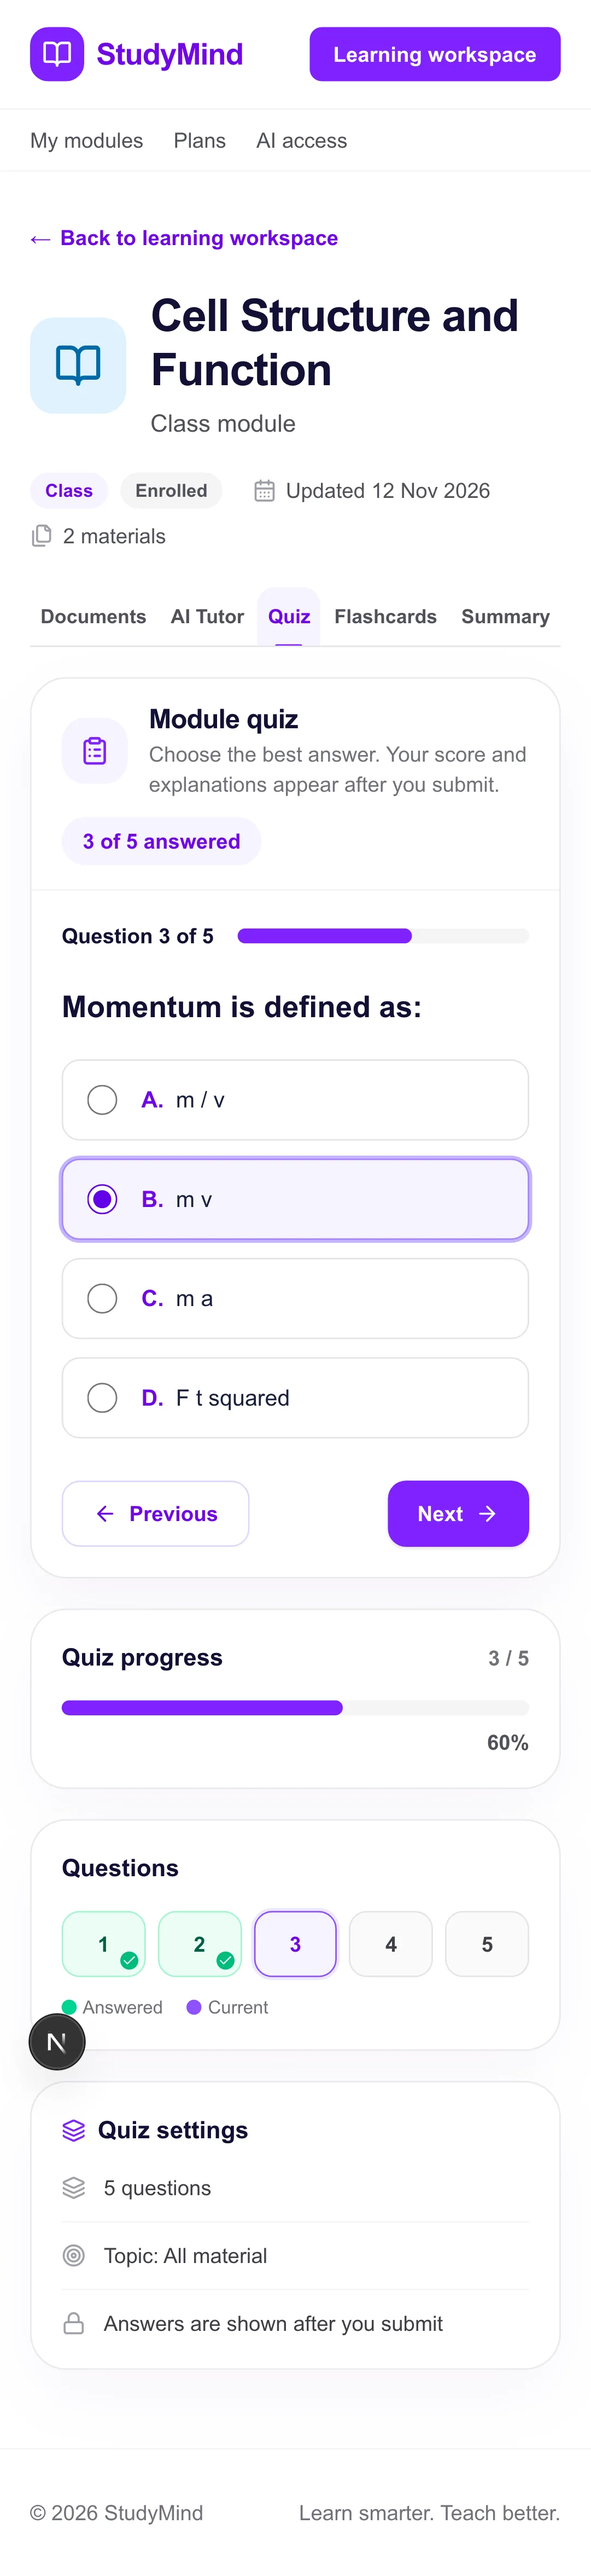
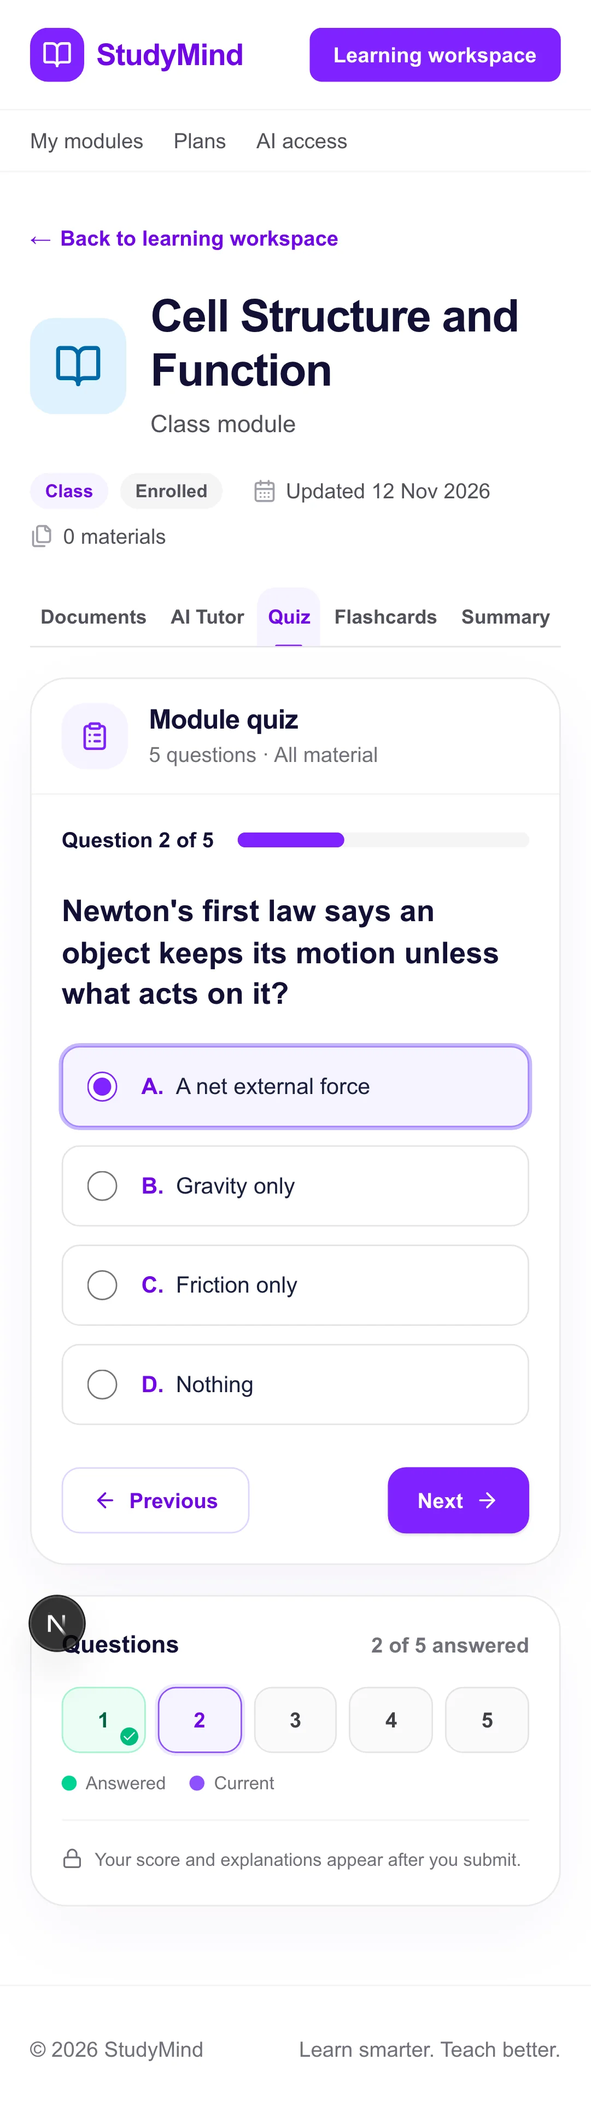
fix(web): quiz and flashcards layout - one progress indicator, one side card, no repeated information
Follows the careermind structure (main card + navigator) and the approved mockup, without the repetition:
- quiz: removed the 'answered' pill, 'Quiz progress' and 'Quiz settings' cards; the Questions card now carries the answered count, the legend and a single note about when answers appear; count and topic live in the subtitle
- results: removed the duplicate 'Your score' card; Questions card shows correct/incorrect and the new-quiz button
- flashcards: 'Card N of M' + reviewed count on one line with one bar; one Cards card holding the navigator and the topic / new-set controls
- side column is sticky on wide screens
- docs screenshots refreshed (desktop, 920px and mobile)

diff --git a/src/components/learning/ai/quiz-tab.tsx b/src/components/learning/ai/quiz-tab.tsx
@@ -1,11 +1,11 @@
 'use client';
 import { useState } from 'react';
-import { ArrowLeft, ArrowRight, CheckCircle2, ClipboardList, Layers, Lock, Target, XCircle } from 'lucide-react';
+import { ArrowLeft, ArrowRight, CheckCircle2, ClipboardList, Lock, XCircle } from 'lucide-react';
 import { studyMindAiService } from '@/services/studymind-ai.service';
 import type { QuizGenerated, QuizResult } from '@/lib/learning-ai.mjs';
 import { ErrorBox } from '@/components/learning/states';
 import { GenerateState, TopicField, errorText } from './shared';
-import { NumberGrid, ProgressBar, SettingRow, SideCard, ToolLayout, ToolPanel, btnOutline, btnPrimary, type CellState } from './layout';
+import { GridLegend, NumberGrid, ProgressBar, SideCard, ToolLayout, ToolPanel, btnOutline, btnPrimary, type CellState } from './layout';
 import { cn } from '@/lib/utils';
 
 const LETTERS = 'ABCDEFGHIJ';
@@ -54,20 +54,14 @@ export function QuizTab({ moduleId }: { moduleId: string }) {
   const total = questions.length;
   const answered = questions.filter(q => answers[q.id]).length;
   const allAnswered = answered === total;
-  const settings = <SideCard title="Quiz settings" icon={<Layers className="size-4" />}>
-    <ul>
-      <SettingRow icon={<Layers className="size-4" />}>{total} {total === 1 ? 'question' : 'questions'}</SettingRow>
-      <SettingRow icon={<Target className="size-4" />}>Topic: {usedTopic || 'All material'}</SettingRow>
-      <SettingRow icon={<Lock className="size-4" />}>Answers are shown after you submit</SettingRow>
-    </ul>
-  </SideCard>;
+  const meta = `${total} ${total === 1 ? 'question' : 'questions'} · ${usedTopic ? `Topic: ${usedTopic}` : 'All material'}`;
 
   // ── Results ──
   if (result) {
     const review = new Map(result.questions.map(q => [q.id, q]));
     const states: CellState[] = questions.map(q => (review.get(q.id)?.is_correct ? 'correct' : 'wrong'));
     return <ToolLayout
-      main={<ToolPanel icon={<CheckCircle2 className="size-5" />} title="Quiz results" subtitle="Review each question and its explanation.">
+      main={<ToolPanel icon={<CheckCircle2 className="size-5" />} title="Quiz results" subtitle={meta}>
         <div role="status" data-testid="quiz-score" className="mb-6 rounded-2xl border border-violet-200 bg-violet-50 p-5">
           <p className="text-2xl font-extrabold text-violet-800">Score: {Math.round(result.score)}%</p>
           <p className="mt-1 text-sm text-violet-900">{result.correct} of {result.total} correct</p>
@@ -97,17 +91,11 @@ export function QuizTab({ moduleId }: { moduleId: string }) {
         </ol>
         {error && <div className="mt-4"><ErrorBox message={error} /></div>}
       </ToolPanel>}
-      side={<>
-        <SideCard title="Your score" right={<span className="text-sm font-semibold text-zinc-500">{result.correct} / {result.total}</span>}>
-          <ProgressBar value={result.correct} max={result.total} label="Correct answers" />
-          <p className="mt-2 text-right text-sm font-semibold text-zinc-600">{Math.round(result.score)}%</p>
-        </SideCard>
-        <SideCard title="Questions">
-          <NumberGrid label="Jump to a question" noun="Question" states={states} onSelect={i => document.getElementById(`quiz-q-${questions[i].id}`)?.scrollIntoView({ behavior: 'smooth', block: 'center' })} />
-          <p className="mt-3 flex flex-wrap gap-x-4 gap-y-1 text-xs text-zinc-500"><span className="inline-flex items-center gap-1"><i className="size-2.5 rounded-full bg-emerald-400" />Correct</span><span className="inline-flex items-center gap-1"><i className="size-2.5 rounded-full bg-red-400" />Incorrect</span></p>
-        </SideCard>
-        <button type="button" onClick={reset} className={cn(btnPrimary, 'w-full')}>Generate a new quiz</button>
-      </>} />;
+      side={<SideCard title="Questions" right={<span className="text-sm font-semibold text-zinc-500">{result.correct} of {result.total} correct</span>}>
+        <NumberGrid label="Jump to a question" noun="Question" states={states} onSelect={i => document.getElementById(`quiz-q-${questions[i].id}`)?.scrollIntoView({ behavior: 'smooth', block: 'center' })} />
+        <GridLegend items={[{ label: 'Correct', dot: 'bg-emerald-400' }, { label: 'Incorrect', dot: 'bg-red-400' }]} />
+        <button type="button" onClick={reset} className={cn(btnPrimary, 'mt-5 w-full')}>Generate a new quiz</button>
+      </SideCard>} />;
   }
 
   // ── Taking the quiz ──
@@ -115,8 +103,7 @@ export function QuizTab({ moduleId }: { moduleId: string }) {
   const states: CellState[] = questions.map((x, i) => (i === current ? 'current' : answers[x.id] ? 'done' : 'idle'));
   const last = current === total - 1;
   return <ToolLayout
-    main={<ToolPanel icon={<ClipboardList className="size-5" />} title="Module quiz" subtitle="Choose the best answer. Your score and explanations appear after you submit."
-      right={<span className="rounded-full bg-violet-50 px-3.5 py-1.5 text-sm font-semibold text-violet-700">{answered} of {total} answered</span>}>
+    main={<ToolPanel icon={<ClipboardList className="size-5" />} title="Module quiz" subtitle={meta}>
       <div className="flex items-center gap-4">
         <p className="shrink-0 text-sm font-bold text-[#111034]">Question {current + 1} of {total}</p>
         <ProgressBar value={current + 1} max={total} label="Position in the quiz" className="flex-1" />
@@ -145,15 +132,9 @@ export function QuizTab({ moduleId }: { moduleId: string }) {
           : <button type="button" className={btnPrimary} onClick={() => setCurrent(c => Math.min(total - 1, c + 1))}>Next <ArrowRight className="size-4" aria-hidden /></button>}
       </div>
     </ToolPanel>}
-    side={<>
-      <SideCard title="Quiz progress" right={<span className="text-sm font-semibold text-zinc-500">{answered} / {total}</span>}>
-        <ProgressBar value={answered} max={total} label="Questions answered" />
-        <p className="mt-2 text-right text-sm font-semibold text-zinc-600">{total ? Math.round((answered / total) * 100) : 0}%</p>
-      </SideCard>
-      <SideCard title="Questions">
-        <NumberGrid label="Jump to a question" noun="Question" states={states} onSelect={setCurrent} />
-        <p className="mt-3 flex flex-wrap gap-x-4 gap-y-1 text-xs text-zinc-500"><span className="inline-flex items-center gap-1"><i className="size-2.5 rounded-full bg-emerald-400" />Answered</span><span className="inline-flex items-center gap-1"><i className="size-2.5 rounded-full bg-violet-500" />Current</span></p>
-      </SideCard>
-      {settings}
-    </>} />;
+    side={<SideCard title="Questions" right={<span className="text-sm font-semibold text-zinc-500">{answered} of {total} answered</span>}>
+      <NumberGrid label="Jump to a question" noun="Question" states={states} onSelect={setCurrent} />
+      <GridLegend items={[{ label: 'Answered', dot: 'bg-emerald-400' }, { label: 'Current', dot: 'bg-violet-500' }]} />
+      <p className="mt-4 flex items-start gap-2 border-t border-zinc-100 pt-4 text-xs leading-5 text-zinc-500"><Lock className="mt-0.5 size-3.5 shrink-0" aria-hidden />Your score and explanations appear after you submit.</p>
+    </SideCard>} />;
 }

diff --git a/src/components/learning/ai/flashcards-tab.tsx b/src/components/learning/ai/flashcards-tab.tsx
@@ -1,11 +1,11 @@
 'use client';
 import { useState, type KeyboardEvent } from 'react';
-import { ArrowLeft, ArrowRight, Layers, RotateCcw, Target } from 'lucide-react';
+import { ArrowLeft, ArrowRight, Layers, RotateCcw } from 'lucide-react';
 import { studyMindAiService } from '@/services/studymind-ai.service';
 import type { FlashcardDeck } from '@/lib/learning-ai.mjs';
 import { ErrorBox } from '@/components/learning/states';
 import { GenerateState, TopicField, errorText } from './shared';
-import { NumberGrid, ProgressBar, SettingRow, SideCard, ToolLayout, ToolPanel, btnOutline, btnPrimary, type CellState } from './layout';
+import { GridLegend, NumberGrid, ProgressBar, SideCard, ToolLayout, ToolPanel, btnOutline, btnPrimary, type CellState } from './layout';
 import { cn } from '@/lib/utils';
 
 /** Flashcards: generated from the module's material. Flip each card, move through the set, and see which cards you have reviewed. */
@@ -45,11 +45,16 @@ export function FlashcardsTab({ moduleId }: { moduleId: string }) {
     if (e.key === 'ArrowLeft') { e.preventDefault(); goTo(index - 1); }
   };
 
+  const meta = `${total} ${total === 1 ? 'card' : 'cards'} · ${usedTopic ? `Topic: ${usedTopic}` : 'All material'}`;
   return <ToolLayout
-    main={<ToolPanel icon={<Layers className="size-5" />} title="Flashcards" subtitle="Flip a card to check yourself. Use the arrow keys to move between cards."
-      right={<span data-testid="card-counter" aria-live="polite" className="rounded-full bg-violet-50 px-3.5 py-1.5 text-sm font-semibold text-violet-700">Card {index + 1} of {total}</span>}>
-      <button type="button" onClick={flip} onKeyDown={onKey} aria-label={flipped ? 'Show question' : 'Reveal answer'} data-testid="flashcard"
-        className={cn('flex min-h-64 w-full flex-col items-center justify-center rounded-3xl border p-7 text-center transition focus-visible:outline-none focus-visible:ring-2 focus-visible:ring-violet-500 focus-visible:ring-offset-2 sm:min-h-72',
+    main={<ToolPanel icon={<Layers className="size-5" />} title="Flashcards" subtitle={meta}>
+      <div className="flex items-center justify-between gap-4 text-sm">
+        <span data-testid="card-counter" aria-live="polite" className="font-bold text-[#111034]">Card {index + 1} of {total}</span>
+        <span className="font-semibold text-zinc-500">{reviewed.size} reviewed</span>
+      </div>
+      <ProgressBar value={reviewed.size} max={total} label="Cards reviewed" className="mt-3" />
+      <button type="button" onClick={flip} onKeyDown={onKey} aria-label={flipped ? 'Show question' : 'Reveal answer'} aria-keyshortcuts="ArrowLeft ArrowRight" data-testid="flashcard"
+        className={cn('mt-6 flex min-h-64 w-full flex-col items-center justify-center rounded-3xl border p-7 text-center transition focus-visible:outline-none focus-visible:ring-2 focus-visible:ring-violet-500 focus-visible:ring-offset-2 sm:min-h-72',
           flipped ? 'border-violet-300 bg-gradient-to-br from-violet-50 to-indigo-50' : 'border-zinc-200 bg-white hover:border-violet-200 hover:bg-violet-50/30')}>
         <span className={cn('mb-4 rounded-full px-3 py-1 text-xs! font-bold! uppercase tracking-wider', flipped ? 'bg-violet-600 text-white' : 'bg-zinc-100 text-zinc-600')}>{flipped ? 'Answer' : 'Question'}</span>
         <span className="break-words text-xl! font-bold! leading-snug text-[#111034] sm:text-2xl!">{flipped ? card.back : card.front}</span>
@@ -61,22 +66,12 @@ export function FlashcardsTab({ moduleId }: { moduleId: string }) {
       </div>
       {error && <div className="mt-4"><ErrorBox message={error} /></div>}
     </ToolPanel>}
-    side={<>
-      <SideCard title="Progress" right={<span className="text-sm font-semibold text-zinc-500">{reviewed.size} / {total} reviewed</span>}>
-        <ProgressBar value={reviewed.size} max={total} label="Cards reviewed" />
-        <p className="mt-2 text-right text-sm font-semibold text-zinc-600">{Math.round((reviewed.size / total) * 100)}%</p>
-      </SideCard>
-      <SideCard title="Cards">
-        <NumberGrid label="Jump to a card" noun="Card" states={states} onSelect={goTo} />
-        <p className="mt-3 flex flex-wrap gap-x-4 gap-y-1 text-xs text-zinc-500"><span className="inline-flex items-center gap-1"><i className="size-2.5 rounded-full bg-emerald-400" />Reviewed</span><span className="inline-flex items-center gap-1"><i className="size-2.5 rounded-full bg-violet-500" />Current</span></p>
-      </SideCard>
-      <SideCard title="Deck settings" icon={<Layers className="size-4" />}>
-        <ul className="mb-4">
-          <SettingRow icon={<Layers className="size-4" />}>{total} {total === 1 ? 'card' : 'cards'}</SettingRow>
-          <SettingRow icon={<Target className="size-4" />}>Topic: {usedTopic || 'All material'}</SettingRow>
-        </ul>
+    side={<SideCard title="Cards">
+      <NumberGrid label="Jump to a card" noun="Card" states={states} onSelect={goTo} />
+      <GridLegend items={[{ label: 'Reviewed', dot: 'bg-emerald-400' }, { label: 'Current', dot: 'bg-violet-500' }]} />
+      <div className="mt-4 space-y-3 border-t border-zinc-100 pt-4">
         <TopicField id="cards-topic" value={topic} onChange={setTopic} disabled={loading} />
-        <button type="button" className={cn(btnOutline, 'mt-3 w-full')} onClick={generate} disabled={loading}>{loading ? 'Generating…' : 'Generate a new set'}</button>
-      </SideCard>
-    </>} />;
+        <button type="button" className={cn(btnOutline, 'w-full')} onClick={generate} disabled={loading}>{loading ? 'Generating…' : 'Generate a new set'}</button>
+      </div>
+    </SideCard>} />;
 }

diff --git a/src/components/learning/ai/layout.tsx b/src/components/learning/ai/layout.tsx
@@ -40,7 +40,7 @@ export function SideCard({ title, icon, right, children }: { title: string; icon
 
 /** Main content plus a right-hand column on wide screens; the column stacks below on small screens. */
 export function ToolLayout({ main, side }: { main: ReactNode; side: ReactNode }) {
-  return <div className="grid gap-5 lg:grid-cols-[minmax(0,1fr)_300px]"><div className="min-w-0">{main}</div><aside className="min-w-0 space-y-5">{side}</aside></div>;
+  return <div className="grid gap-5 lg:grid-cols-[minmax(0,1fr)_280px]"><div className="min-w-0">{main}</div><aside className="min-w-0 space-y-5 lg:sticky lg:top-6 lg:h-fit">{side}</aside></div>;
 }
 
 export function ProgressBar({ value, max, label, className }: { value: number; max: number; label: string; className?: string }) {
@@ -72,7 +72,7 @@ export function NumberGrid({ label, states, onSelect, noun }: { label: string; s
   </ul>;
 }
 
-/** A label/value row used in the settings card. */
-export function SettingRow({ icon, children }: { icon: ReactNode; children: ReactNode }) {
-  return <li className="flex items-center gap-3 border-t border-zinc-100 py-3 text-sm text-zinc-700 first:border-t-0 first:pt-0 last:pb-0"><span className="text-zinc-400" aria-hidden>{icon}</span><span className="min-w-0 break-words">{children}</span></li>;
+/** Colour legend shown under a NumberGrid. */
+export function GridLegend({ items }: { items: { label: string; dot: string }[] }) {
+  return <p className="mt-3 flex flex-wrap gap-x-4 gap-y-1 text-xs text-zinc-500">{items.map(i => <span key={i.label} className="inline-flex items-center gap-1.5"><i className={cn('size-2.5 rounded-full', i.dot)} />{i.label}</span>)}</p>;
 }

diff --git a/tests/e2e/ai-study-tools.spec.ts b/tests/e2e/ai-study-tools.spec.ts
@@ -88,7 +88,7 @@ test('Quiz: one question at a time, navigator, answer gating, submit, score, cor
   await expect(page.getByText('0 of 5 answered')).toBeVisible();
   await expect(page.getByRole('button', { name: 'Previous' })).toBeDisabled();
   expect(await page.locator('body').innerText()).not.toMatch(/Explanation:/);                     // answers withheld before submission
-  await expect(page.getByText('Answers are shown after you submit')).toBeVisible();
+  await expect(page.getByText('Your score and explanations appear after you submit.')).toBeVisible();
   await shot(page, info, '23-quiz-question');
 
   // Question 1 wrong ("8 N"), the rest with option b ("15 N", "m v", "halve" are correct; others vary)
